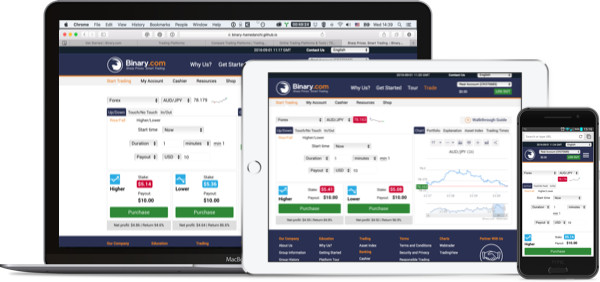
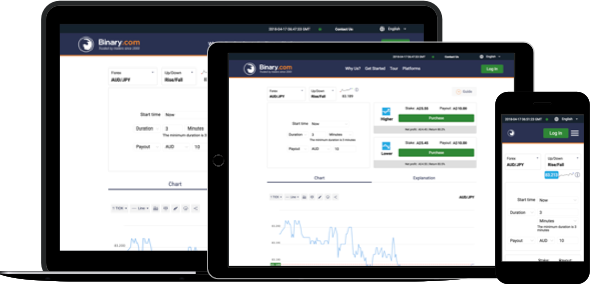
replaced platforms image with up to date image

diff --git a/src/sass/static/pages.scss b/src/sass/static/pages.scss
@@ -292,6 +292,10 @@ body #not_authenticated_financial ul.checked > li {
     img.responsive {
         max-height: 150px;
         width: auto;
+
+        @media (max-width: 350px) {
+            max-width: 290px;
+        }
     }
 }
 
